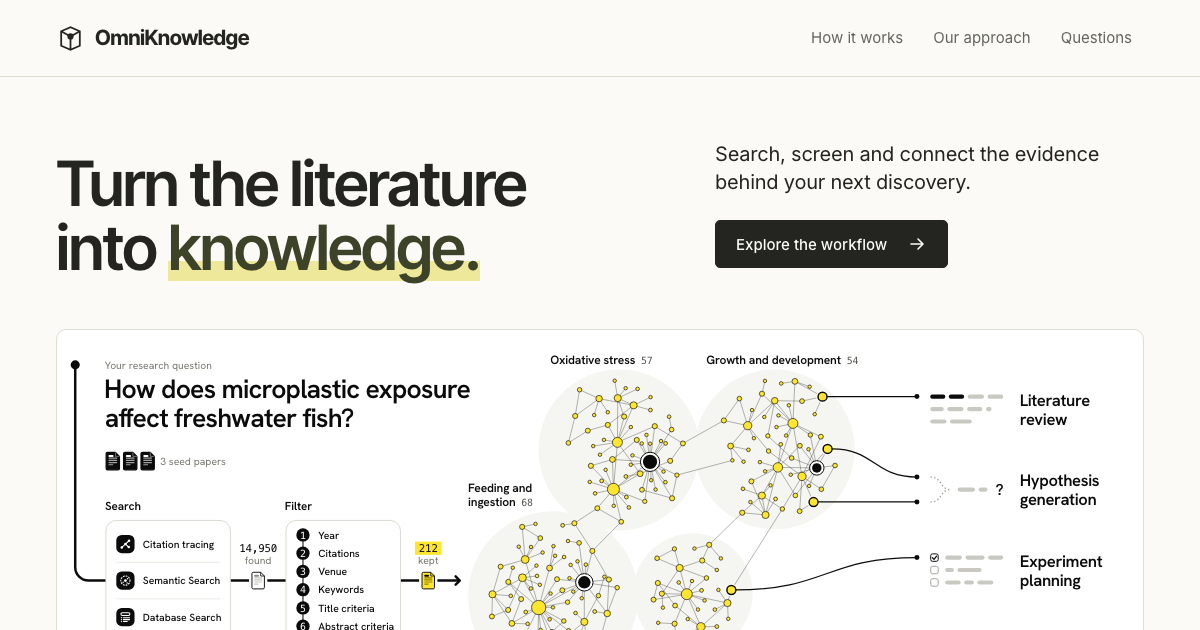
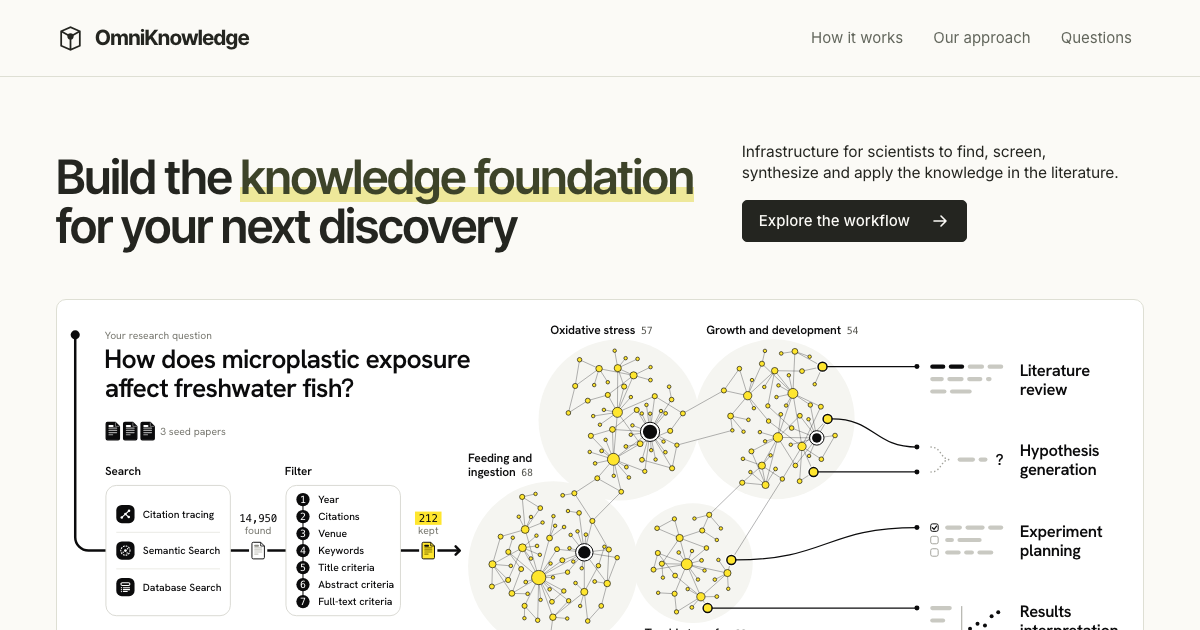
README and link preview for the second version; the unused closing styles removed

diff --git a/page.css b/page.css
@@ -1,5 +1,5 @@
 /* The page around the pictures: navigation, first screen, the frame a picture stands in, the
-   heading and text of a section, questions, closing. Pictures bring their own styles (kit.css
+   heading and text of a section, questions, footer. Pictures bring their own styles (kit.css
    and each section's file); nothing here reaches into one. */
 :root{
   color-scheme:light;
@@ -59,7 +59,7 @@ h1{font-family:var(--pg-display);font-size:clamp(32px,3.95vw,56px);line-height:1
 .sec-p{font-size:17px;line-height:1.42;letter-spacing:-.011em;color:var(--pg-muted);max-width:500px;text-wrap:pretty}
 .sec-head .sec-p{justify-self:end}
 
-/* questions, closing, footer */
+/* questions, footer */
 .faq{margin-top:128px;border-top:1px solid var(--pg-line);padding-top:64px;display:grid;grid-template-columns:1fr 1.4fr;gap:80px}
 .faq details{border-bottom:1px solid var(--pg-line);padding:22px 0}
 .faq details:first-child{padding-top:0}
@@ -68,9 +68,6 @@ h1{font-family:var(--pg-display);font-size:clamp(32px,3.95vw,56px);line-height:1
 .faq summary svg{width:20px;height:20px;flex-shrink:0;transform:rotate(90deg);transition:transform .2s var(--pg-ease)}
 .faq details[open] summary svg{transform:rotate(-90deg)}
 .faq details p{font-size:16px;line-height:1.45;margin-top:14px;max-width:590px;color:var(--pg-muted)}
-.closing{padding:64px 60px;background:var(--pg-accent);border-radius:10px;margin-top:96px;display:flex;align-items:center;justify-content:space-between;gap:40px}
-.closing h2{font-family:var(--pg-display);font-size:48px;line-height:1.06;font-weight:600;letter-spacing:-.03em}
-.closing p{margin-top:18px;color:var(--pg-accent-ink)}
 .footer{margin-top:64px;padding:28px 0;border-top:1px solid var(--pg-line);display:flex;flex-wrap:wrap;align-items:center;justify-content:space-between;gap:16px 24px;font-size:14px;color:var(--pg-muted)}
 .footer .brand{color:var(--pg-ink);font-size:19px}
 .footer .brand svg{width:24px;height:24px}
@@ -90,8 +87,6 @@ h1{font-family:var(--pg-display);font-size:clamp(32px,3.95vw,56px);line-height:1
   .nav-links{display:none}
   .sec-head,.faq{grid-template-columns:1fr}
   .sec-head .sec-p{justify-self:start}
-  .closing{flex-direction:column;align-items:flex-start;padding:40px 28px}
-  .closing h2{font-size:36px}
 }
 @media(max-width:600px){
   .wrap{width:calc(100% - 40px)}

diff --git a/README.md b/README.md
@@ -12,11 +12,11 @@ from `file://`. The example question, papers and counts on it are illustrative.
 | Path | Owns |
 |---|---|
 | `index.html` | The page's text and the order of its sections |
-| `page.css` | Everything around the pictures: navigation, first screen, the frame a picture stands in, section headings, questions, closing, footer |
+| `page.css` | Everything around the pictures: navigation, first screen, the frame a picture stands in, section headings, questions, footer |
 | `page.js` | Mounts each section into the element that names it (`data-section`) |
 | `kit.css`, `kit.js` | The drawing language: tokens, classes and the shared objects (`window.OK`) every picture is drawn with; the example data (`OK.DATA`) |
 | `hero.js`, `hero.css` | The first picture, in two compositions: wide, and tall for windows of 880 px and under (the threshold lives in `hero.js`) |
-| `sections/<name>.js`, `.css` | One section each: `features`, `build`, `search`, `screen`, `knowledge`. A file registers itself with `OK.section(name, id, { label, mount })` and prefixes its own classes (`ft-`, `ba-`, `sr-`, `sc-`, `ka-`). Where a file registers more than one version of its section, the page shows the first |
+| `sections/<name>.js`, `.css` | One section each, in page order: `features`, `search`, `screen`, `build` (the pipeline), `knowledge`. A file registers itself with `OK.section(name, id, { label, mount })` and prefixes its own classes (`ft-`, `ba-`, `sr-`, `sc-`, `ka-`). |
 | `assets/` | The pictures' typeface (Hanken Grotesk, SIL Open Font License), the icon and the link preview image |
 | `tools/shot.mjs` | Captures the page or one part of it as a PNG |
 
@@ -26,8 +26,9 @@ Every picture is drawn with the kit, so that a paper, a sheet and the network ar
 objects from the first screen to the last.
 
 - **Colour.** Ink `#0b0b0c`, white, one yellow `#ffe62e` (the marker behind a number or word, a
-  kept paper, the dots of the network), the pale ground `--tint` and the greys in `kit.css`. No
-  second hue, gradient, shadow or glow.
+  kept paper, the dots of the network), its pale `--y-pale` for a quantity that tapers into the
+  kept papers, the pale ground `--tint` and the greys in `kit.css`. No second hue, gradient,
+  shadow or glow.
 - **Type.** Inside a picture Hanken, with mono for counts, at the kit's sizes; nothing under
   12.5 px, no uppercase labels, no decorative numbering. A number appears only when it counts
   something. Around the pictures the page is set in Inter Tight (headings) and Inter (text).
